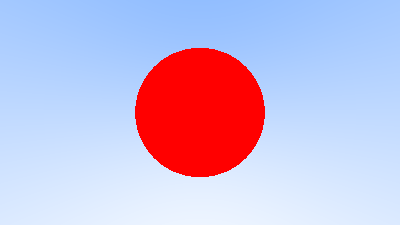
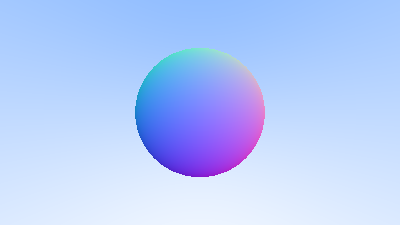
6.1 normals

Changed region(s): [[0.33, 0.1867, 0.66, 0.8089]]

diff --git a/main.cpp b/main.cpp
@@ -3,22 +3,29 @@
 #include "ray.h"
 #include "vec3.h"
 
-bool hit_sphere(const point3& center, double radius, const ray& r)
+double hit_sphere(const point3& center, double radius, const ray& r)
 {
 	vec3 oc = r.origin - center;
 	const auto a = dot(r.dir, r.dir);
 	const auto b = 2.0 * dot(oc, r.dir);
 	const auto c = dot(oc, oc) - radius*radius;
 	const auto discriminant = b*b - 4*a*c;
-	return discriminant > 0;
+	if (discriminant < 0) {
+		return -1.0;
+	} else {
+		return (-b - sqrt(discriminant)) / (2.0 * a);
+	}
 }
 
 color ray_color(const ray& r)
 {
-	if(hit_sphere(point3(0,0,-1), 0.5, r))
-		return color(1, 0, 0);
+	auto t = hit_sphere(point3(0, 0, -1), 0.5, r);
+	if (t > 0.0) {
+		const vec3 N = normalize(r.at(t) - vec3(0,0,-1));
+		return 0.5*color(N.x+1, N.y+1, N.z+1);
+	}
 	const vec3 unit_direction = normalize(r.dir);
-	const auto t = 0.5 * (unit_direction.y + 1);
+	t = 0.5 * (unit_direction.y + 1);
 	return (1.0 - t) * color(1.0, 1.0, 1.0) + t * color(0.5, 0.7, 1.0);
 }
 
